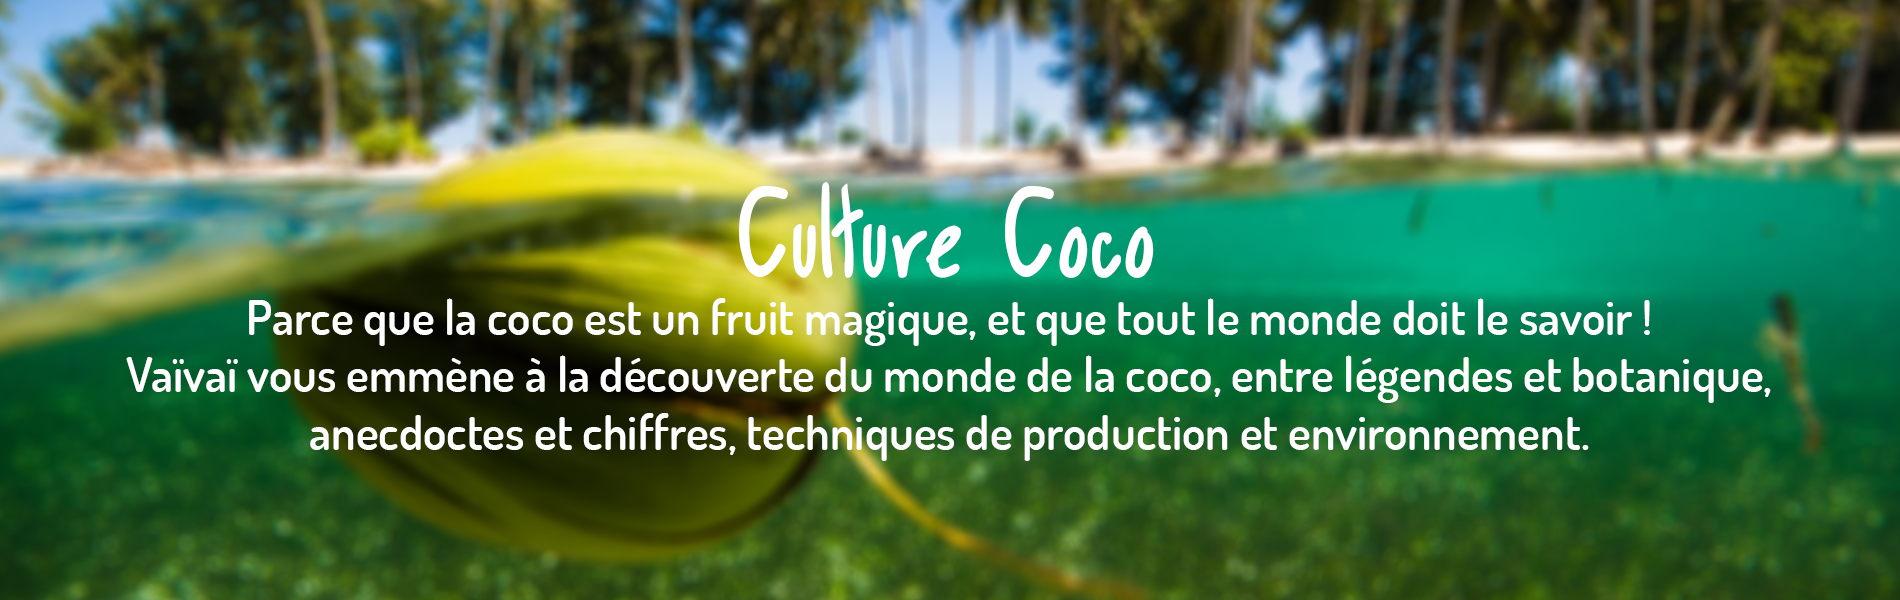
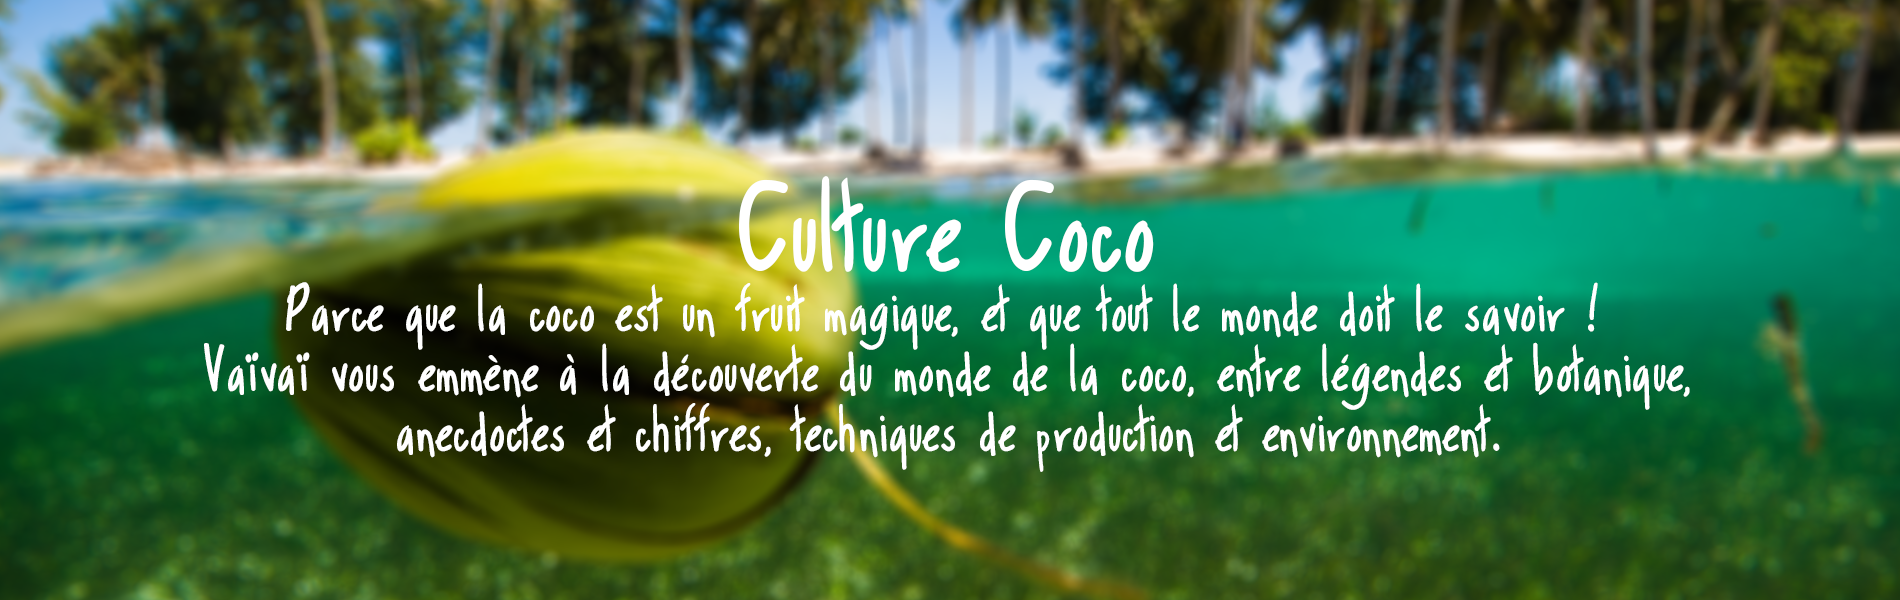
derniere maj esperons le

Changed region(s): [[0.0621, 0.33, 0.9316, 0.78], [0.5279, 0.3, 0.5589, 0.36], [0.3726, 0.3, 0.4347, 0.33]]

diff --git a/Semaine Intensive/semaine_intensive/pages/Produits.html b/Semaine Intensive/semaine_intensive/pages/Produits.html
@@ -28,7 +28,7 @@
 					<a href="../pages/culture_coco.html">Culture Coco</a>
 				</li>
 				<li class="menu columns large-3 medium-2 small-12">
-					<a href="https://www.vaivai.fr/fr/">À propos</a>
+					<a href="https://www.vaivai.fr/fr/notre-mission/">À propos</a>
 				</li>
 			</ul>
 		</header>

diff --git a/Semaine Intensive/semaine_intensive/pages/culture_coco.html b/Semaine Intensive/semaine_intensive/pages/culture_coco.html
@@ -29,7 +29,7 @@
 					<a href="../pages/culture_coco.html">Culture Coco</a>
 				</li>
 				<li class="menu columns large-3 medium-2 small-12">
-					<a href="https://www.vaivai.fr/fr/">À propos</a>
+					<a href="https://www.vaivai.fr/fr/notre-mission/">À propos</a>
 				</li>
 			</ul>
 		</header>

diff --git a/Semaine Intensive/semaine_intensive/index.html b/Semaine Intensive/semaine_intensive/index.html
@@ -25,7 +25,7 @@
 					<a href="pages/culture_coco.html">Culture Coco</a>
 				</li>
 				<li class="menu columns large-3 medium-2 small-12">
-					<a href="https://www.vaivai.fr/fr/">À propos</a>
+					<a href="https://www.vaivai.fr/fr/notre-mission/">À propos</a>
 				</li>
 			</ul>
 		</header>

diff --git a/Semaine Intensive/semaine_intensive/styles/style.css b/Semaine Intensive/semaine_intensive/styles/style.css
@@ -249,6 +249,7 @@ img.slide_article{
 }
 .slider-bot{
 	font-family: "terminaldosis";
+	font-size:100%;
 }
 
 .info_slide{
